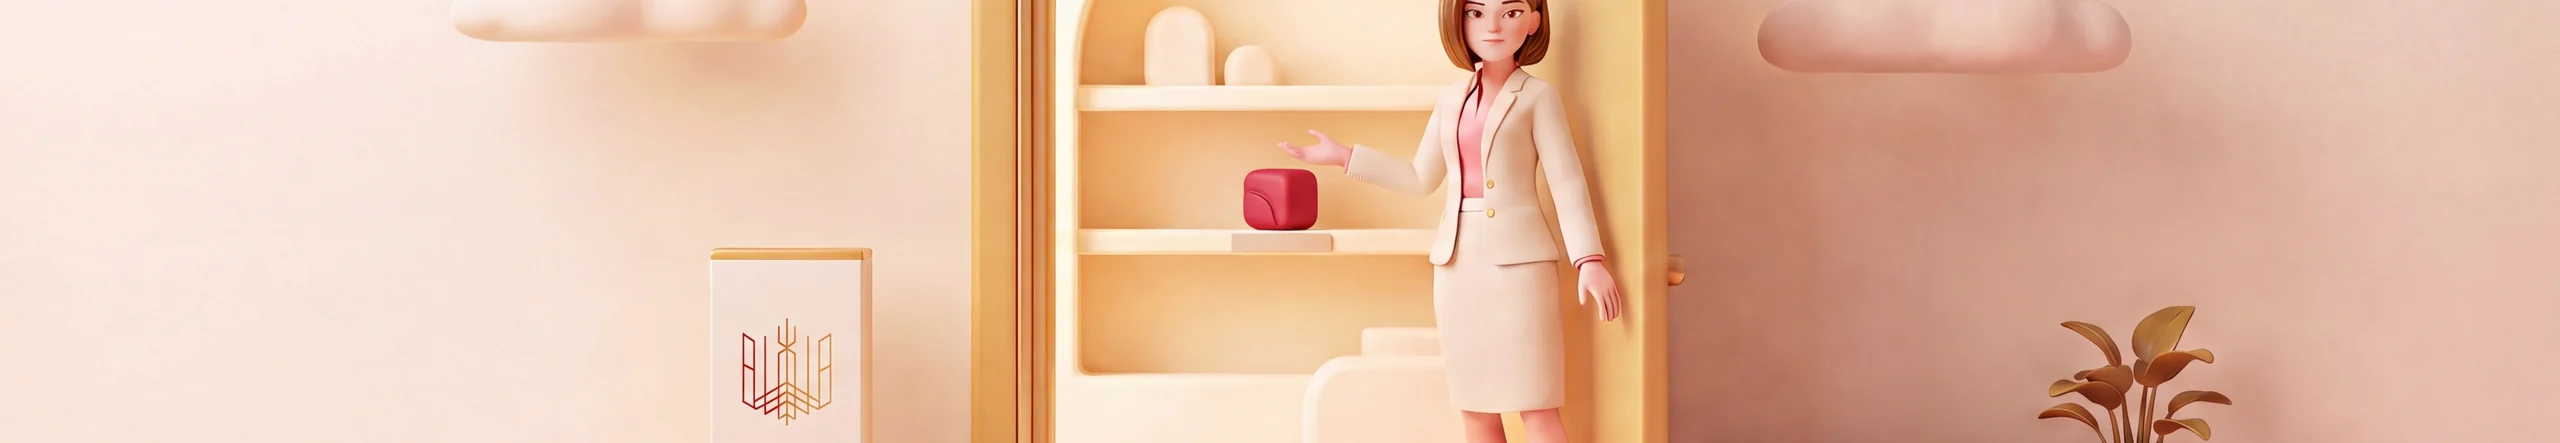
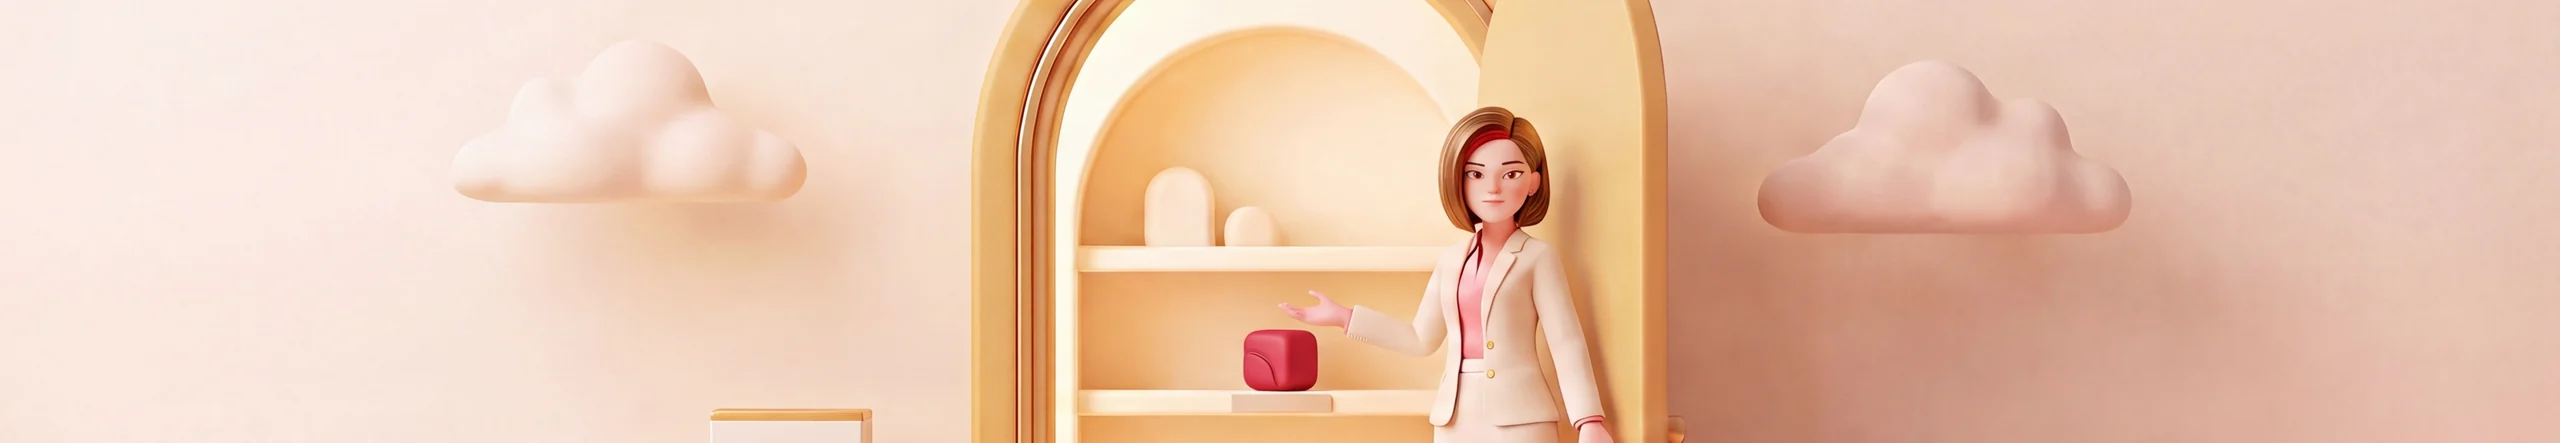
20260818-2030

diff --git a/src/components/templates/about/introduction.tsx b/src/components/templates/about/introduction.tsx
@@ -410,8 +410,8 @@ export const AboutIntroductionTemplate = () => {
                         {/* Image */}
                         <div
                           className={`
-                            flex items-center justify-center 
-                            rounded-xl md:rounded-2xl p-16 md:p-24
+                            relative overflow-hidden aspect-[3/2]
+                            rounded-xl md:rounded-2xl
                             ${index % 2 === 1 ? 'md:order-1' : ''}
                           `}
                           style={{ background: 'rgba(255, 249, 230, 0.05)', border: '1px solid rgba(214, 177, 77, 0.1)' }}
@@ -419,7 +419,7 @@ export const AboutIntroductionTemplate = () => {
                           <img
                             src={area.image}
                             alt={area.titleEn}
-                            className="w-full h-auto max-w-[200px] md:max-w-[300px] object-contain"
+                            className="absolute inset-0 w-full h-full object-cover"
                           />
                         </div>
                       </div>
